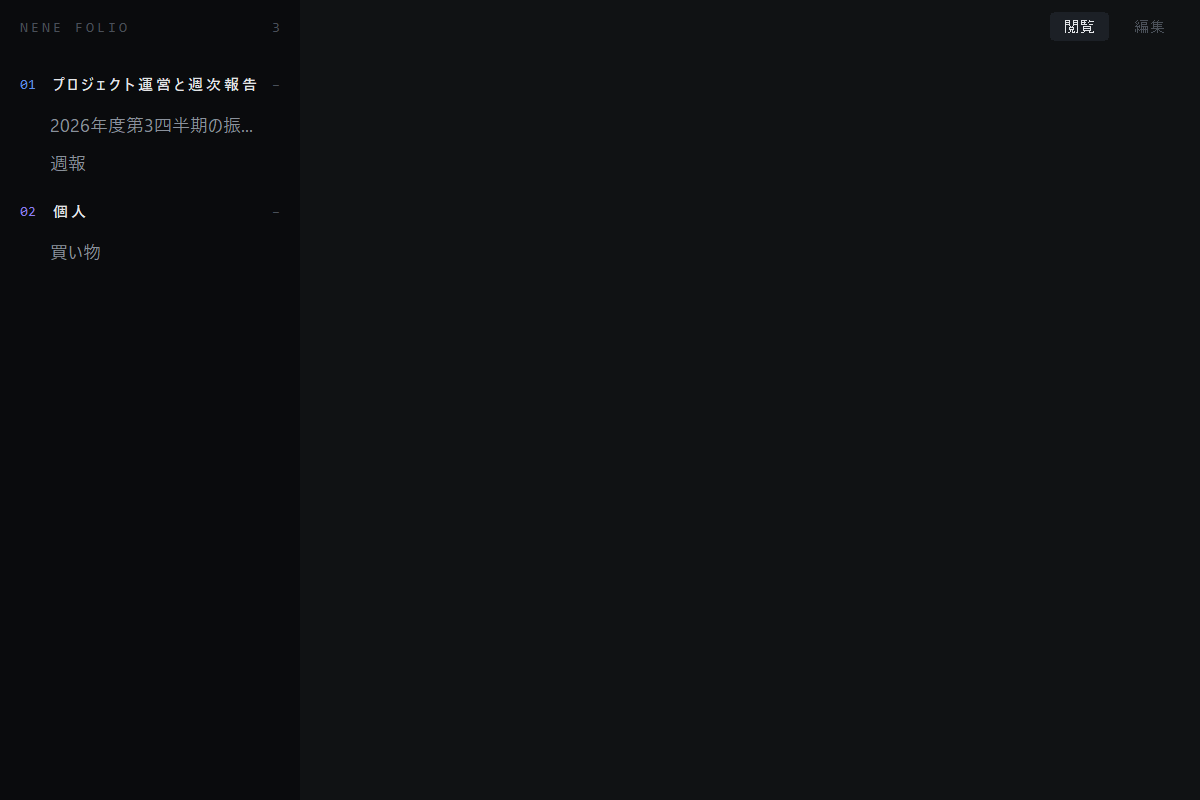
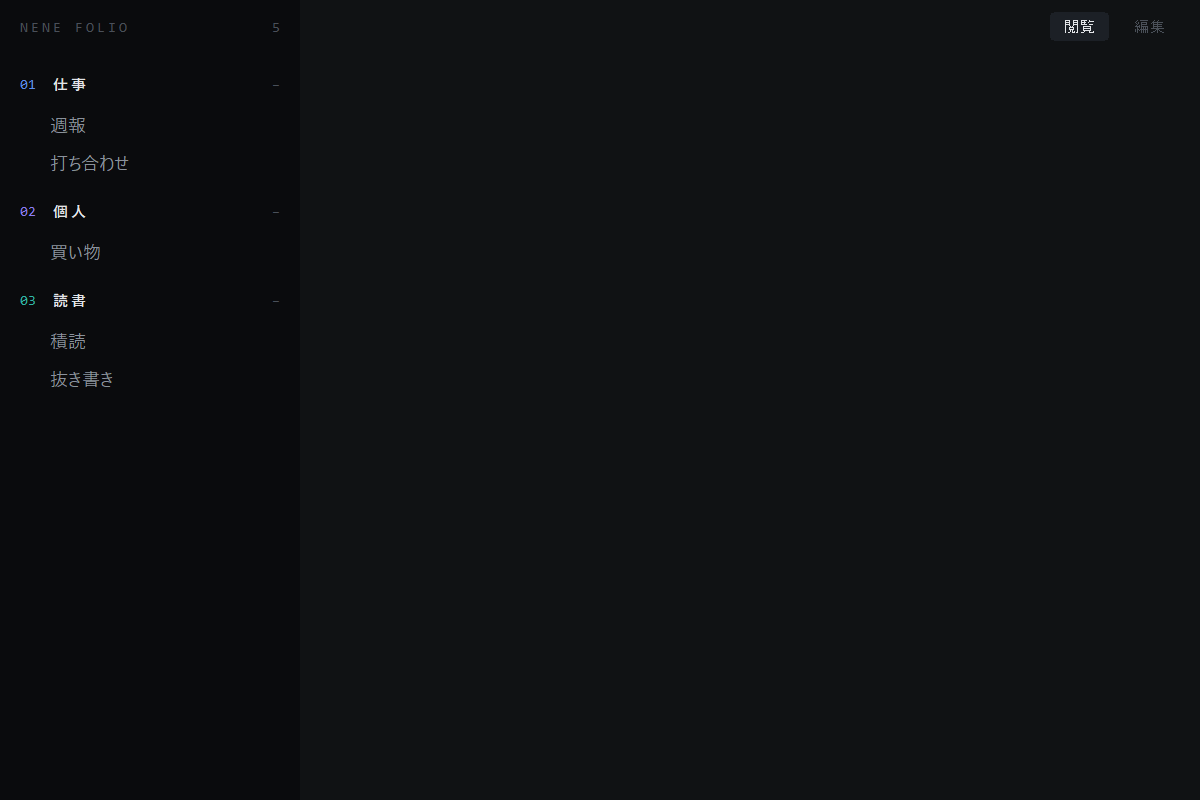
docs(quality): 白い帯の証拠を「作成直後の窓の矩形と client の差」に置き換える (#22)
- `docs/quality/gate-proofs.md` 第 5-j 節。`030d2a5`（FALSE を既定処理へ）と この版の 3 回ずつの実測を表にし、
  8 px の期間（11 / 37 / 42 ms）が 1 回目の観測から 0 px になったことを証拠にした。
  「未解明」の記述と、退けた当初の見立ての扱いを ADR 0011 の訂正に合わせた
- 帯そのものの写真は 1 度しか撮れていない（`PrintWindow` は窓を描き直させる）ことと、
  施主の実機で消えたかどうかの確認が残ることを「見ていないもの」に明記した
- 最大化・最小サイズ・DPI 144 の値が FALSE の変更のあとも同じであることを書き足した
- `docs/todo/current.md`: 原因と証拠の形を実測に合わせた

Claude-Session: https://claude.ai/code/session_01APV96Xzb4BgniXZX78Pdwq

Changed region(s): [[0.0308, 0.0938, 0.2158, 0.2188], [0.0308, 0.375, 0.0925, 0.4375], [0.0308, 0.4688, 0.0925, 0.5]]

diff --git a/docs/quality/gate-proofs.md b/docs/quality/gate-proofs.md
@@ -434,8 +434,9 @@ DPI 120 の行の位置（`top_padding` 55・間 8・カテゴリ行 43・ノー
 ### 5-j. 枠なし窓の client・最小サイズ・パンくずの省略（Issue #22・2026-09-10）
 
 環境: Windows 11 Pro 10.0.26200・`build/NeNeFolio.exe`（Debug 構成＝ASan / UBSan / nullability 付き）と、
-比較のために**修正前の実行ファイル**（HEAD `85268bc` = production コードは main の `a860218` と同じ）を
-`build/NeNeFolio-before.exe` として並べて置いた（確認後に消した）。撮影する側も Per-Monitor v2（5-e の教訓）。
+比較のために**修正前の実行ファイル**を `build/NeNeFolio-before.exe` として並べて置いた（確認後に消した）。
+「修正前」は 2 段階ある: パンくずと最小サイズの比較は main の `a860218`（= HEAD `85268bc` の production コード）、
+`WM_NCCALCSIZE` の `wParam == FALSE` の比較は `030d2a5`（TRUE だけを自分で答えていた版）。撮影する側も Per-Monitor v2（5-e の教訓）。
 OS のアプリのモードはダーク（`AppsUseLightTheme` = 0・施主の設定のまま触っていない）。
 `build/data/` は確認の前に退避し、**長い名前**の索引（`プロジェクト運営と週次報告` #5B8DEF に
 `2026年度第3四半期の振り返りと来期の計画メモ` と `週報`・`個人` #8B7CF6 に `買い物`）へ差し替えて、終了後に元へ戻した。
@@ -447,7 +448,7 @@ OS のアプリのモードはダーク（`AppsUseLightTheme` = 0・施主の設
 **`CopyFromScreen` は AMSI に「悪意のあるスクリプト」として拒否されたので使えない**）:
 
 1. 修正前・修正後をそれぞれ起動し、窓が現れた瞬間から 400 ms のあいだ `GetWindowRect` と `GetClientRect` を
-   休まず読んで、値が変わった時刻だけを記録する
+   休まず読んで、値が変わった時刻と**何回目の観測か**を記録する（各 3 回）
 2. 起動後・動かしただけ・リサイズ後・別モニタへ移したあとに、窓の外形と `ClientToScreen` した client を数値で比べ、
    縁 12 px の画素を並べる
 3. `SW_MAXIMIZE` → 窓の矩形と client を作業領域と比べる → `SW_RESTORE`
@@ -465,22 +466,32 @@ OS のアプリのモードはダーク（`AppsUseLightTheme` = 0・施主の設
 - **窓の外形と client**: 修正後は `GetWindowRect` と `GetClientRect` + `ClientToScreen` の差が
   上下左右とも **0**（起動 1.5 秒後・動かしただけ・リサイズ後・DPI 144 / 168 のモニタへ移したあと）。
   縁 12 px は左が `#0A0B0D`（ドロワーの地）・上が `#101214`（右ペインの地）で、枠の色は出ない
-  （[frame-after.png](frame-after.png)）。修正前も同じ条件では帯が無かった（[frame-before.png](frame-before.png)）
-- **白い帯は再現しなかった（ADR 0011 の「文脈」(1) の原因の特定は、この機械では確認できていない）**:
-  修正前・修正後の**どちらも**、窓が現れてから約 **37 ms** のあいだ client は **1184×784**（窓は 1200×800・差 8 px）で、
-  そのあと 1200×800 になる。修正後も同じということは、`WM_NCCALCSIZE` は `CreateWindowExW` の中では送られておらず、
-  最初に届くのは `GWLP_USERDATA` を結んだあと（`ShowWindow` のとき）だという意味である。つまり
-  「最初の `WM_NCCALCSIZE` が `DefWindowProcW` に流れる」は、この機械では起きていない。決定 1 が実測で効いているのは
-  **最大化**（次の項）で、結び付けの前に答えるのは防御として残る。
-  ただし 1 度だけ、修正前の実行ファイルで client が内側のまま 1 回描かせたあと、1.5 秒後の写真の縁 8 px が
+  （[frame-after.png](frame-after.png)）。修正前の写真も同じ絵になる（[frame-before.png](frame-before.png)）＝
+  **帯は写真ではなく矩形の数値で見る**（次の項）
+- **作成直後の client（白い帯の発生条件・ADR 0011 の決定 1）**: `wParam == FALSE` を `DefWindowProcW` に流していた版
+  （`030d2a5`）では、窓が現れてから **37 / 42 / 45 ms**（3 回）のあいだ client が **1184×784**（窓は 1200×800・**四方 8 px 小さい**）で、
+  そのあと 1200×800 になる。この 8 px がまさに `WS_THICKFRAME` の枠で、OS がそこを既定の枠の色で描ける領域である。
+  **`FALSE` も自分で答える版では、3 回とも「1 回目の観測」から差が 0 px** で、8 px の期間そのものが無い。
+
+  | 版 | 試行 1 | 試行 2 | 試行 3 |
+  | --- | --- | --- | --- |
+  | `030d2a5`（FALSE を既定処理へ） | 11 ms まで 8 px | 37 ms まで 8 px | 42 ms まで 8 px |
+  | この縦切り（FALSE も 0 を返す） | 1 回目の観測から 0 px | 1 回目の観測から 0 px | 1 回目の観測から 0 px |
+
+  当初の見立て（「`GWLP_USERDATA` を結ぶ前の `TRUE` が既定に流れる」）は、修正前と修正後で差が出なかったこの実測で退けた。
+  `TRUE` は結び付けの後にしか届かず、作成時に必ず届くのは `FALSE` である（ADR 0011 の「文脈」(1) はこの実測に合わせて直した）。
+  なお 1 度だけ、`a860218` の版で client が内側のまま 1 回描かせたあと、1.5 秒後の写真の縁 8 px が
   **左端・上端とも `#E3E3E3` `#FFFFFF` `#F4F7FC`×6**（＝白い帯）になり、`GetClientRect` が 1200×800 を返しているのに
-  帯が残るのを観測した。同じ手順を修正前 12 回・修正後 6 回繰り返しても再現しなかったので、**発生条件は掴めていない**
+  帯が残るのを観測した。帯の色の実測はこの 1 回だけで、写真として繰り返し撮る手順は見つかっていない
+  （`PrintWindow` は窓を描き直させるので、内側だった瞬間の画素は普通は残らない）
 - **最大化**: 窓の矩形は修正前・修正後とも `-8,-8,3848,2168`（OS が枠ぶん外へ出す）。**client は修正前が
   `-8,-8,3848,2168`（3856×2176＝作業領域を四方 8 px と タスクバーぶんはみ出す）、修正後は `0,0,3840,2100` で
   作業領域と画素まで一致**する。DPI 144 のモニタでも窓 `-3850,-10,10,2170` に対して client は
-  `-3840,0,0,2160`＝そのモニタの作業領域。`SW_RESTORE` で元の矩形に戻る
+  `-3840,0,0,2160`＝そのモニタの作業領域。`SW_RESTORE` で元の矩形に戻る。
+  `FALSE` も自分で答えるようにしたあとも同じ値である（作業領域への収め方を矩形 1 つを受ける
+  `fit_work_area` に括り、TRUE の `rgrc[0]` と FALSE の `RECT` の両方に当てているため）
 - **最小サイズ**: 300×200 を頼むと、修正前は **300×200 になる**。修正後は **DPI 120 で 700×450・DPI 144 で 840×540** で
-  止まる（96 DPI の 560×360 の 1.25 倍 / 1.5 倍・`MulDiv` の丸めどおり）
+  止まる（96 DPI の 560×360 の 1.25 倍 / 1.5 倍・`MulDiv` の丸めどおり）。`FALSE` の変更のあとも同じ値
 - **リサイズとドロワーの高さ**: 1200×800 → 820×560 にすると、ドロワーの子窓は `300×800` → `300×560` に追随し、
   右ペインの頭の札は新しい右端（client 820 − 20 = 800）に描かれる
   （[resize-wide.png](resize-wide.png) → [resize-narrow.png](resize-narrow.png)）。
@@ -510,6 +521,7 @@ OS のアプリのモードはダーク（`AppsUseLightTheme` = 0・施主の設
   （120 → 144 で 960×640 が 1152×768）、そのあとも client と窓の差は 0 で、最小サイズも DPI に追随する
 - 見ていないもの: **96 DPI**（この機械の 4 枚のモニタは 120 / 144 / 168 / 168 で 100% のモニタが無い。施主に依頼）。
   実際のマウスで縁を掴んだリサイズとスナップ（Win + ←→）・ドラッグ中の連続した `WM_SIZE`。
-  白い帯の再現条件と、施主の実機で直ったかどうか。リサイズ直後の残像（`PrintWindow` では写らない）。
+  **白い帯が施主の実機で消えたかどうか**（開発機では帯は一瞬しか出ず、消えたことの証拠は「作成直後から差 0 px」という
+  矩形の数値だけである。帯そのものの写真は 1 度しか撮れていない）。リサイズ直後の残像（`PrintWindow` では写らない）。
   ライトのアプリのモードでの見え方（`AppsUseLightTheme` は 0 のまま触っていない）。
   作業領域が 560×360 より狭い画面。複数のモニタにまたがる最大化とスナップの半画面

diff --git a/docs/todo/current.md b/docs/todo/current.md
@@ -47,7 +47,8 @@
   `color` に `#RRGGBB`（大文字）で原子的に書き戻る（FR-010）。キャンセルと同じ色は書かない。ノート行・頭の帯・
   左ボタンを押している間の右クリックは何もしない。編集中に色を変えても本文と編集モードは保たれる。
   書き戻せなければ理由 1 行を出して表示は変えない。**色の選択の窓は OS の部品なので、ダークでもライトのまま出る**（ADR 0010）
-- 窓は 96 DPI で 560×360 より小さくならず、最大化するとモニタの作業領域に収まる。大きさを変えると
+- 枠なし窓の client は**作成の瞬間から窓の矩形全体**（`WM_NCCALCSIZE` は TRUE も FALSE も自分で答え、既定処理に
+  渡さない）。窓は 96 DPI で 560×360 より小さくならず、最大化するとモニタの作業領域に収まる。大きさを変えると
   ドロワーの高さ・右ペインの頭の札・パンくずが新しい大きさで描き直る。右ペインの頭が狭いときは
   **ノート名 → カテゴリ名の順に末尾が省略記号**になり、番号・「/」・札 2 つは残る（ADR 0011）
 - 中核の分岐 1291/1362（94.79%）。確保失敗の経路は測定ビルドの注入で全部走る
@@ -64,9 +65,10 @@
 - スナップ（Win + ←→）と、実際のマウスで縁を掴んだリサイズは実装したが実機で未確認。
   DPI の切り替え（120 → 144 → 168）・最大化と復帰・`SetWindowPos` での大きさの変更は実機で確認した
   （`docs/quality/gate-proofs.md` 第 5-j 節）。**96 DPI はこの機械にモニタが無いので施主に依頼**
-- 起動時の窓の枠に白い帯が出ることがある問題（Issue #22）は、原因を掴めていない。ADR 0011 の決定は入れたが、
-  自動の確認では修正前でも 1 度しか再現せず、修正前と修正後で起動直後の振る舞いに差が出なかった（第 5-j 節）。
-  **施主の実機で再現するかどうかの確認が要る**
+- 起動時の窓の枠に白い帯が出ることがある問題（Issue #22）は、原因を `WM_NCCALCSIZE` の `wParam == FALSE` を
+  既定処理に流していたことと特定して直した（ADR 0011 の決定 1）。開発機では帯は 37〜45 ms しか出ないので、
+  証拠は「窓が現れた最初の観測から窓の矩形と client の差が 0 px」という数値（第 5-j 節）。
+  **施主の実機で帯が消えたかどうかの確認が残る**
 
 ## 次の 1 手
 
@@ -74,7 +76,7 @@
 **Issue #23（FR-017: 保存の直前の md を `data/.history` に 5 版までローテート）→ Issue #24（FR-018: 索引と本文の 2 つのフォーカス区画・
 vim の鍵で選択を動かし、モードを保ったまま自動保存）→ 検索（FR-011）**。#23 / #24 は SPECIFICATION に FR を足し ADR を先に書く。
 Issue #22（枠の白い線・リサイズ後の再描画・最小サイズとパンくずのはみ出し）は ADR 0011 のとおり実装した
-（枝 `fix/22-frameless-client`）。白い線が施主の実機で直ったかどうかだけが残る。
+（枝 `fix/22-frameless-client`）。白い線が施主の実機で消えたかどうかの確認だけが残る。
 
 - FR-011 検索: ドロワーの頭に検索窓が要る。索引の絞り込みは core の純関数に置く。行が減れば
   スクロール上限も縮むだけで済む（ADR 0009 の想定）
